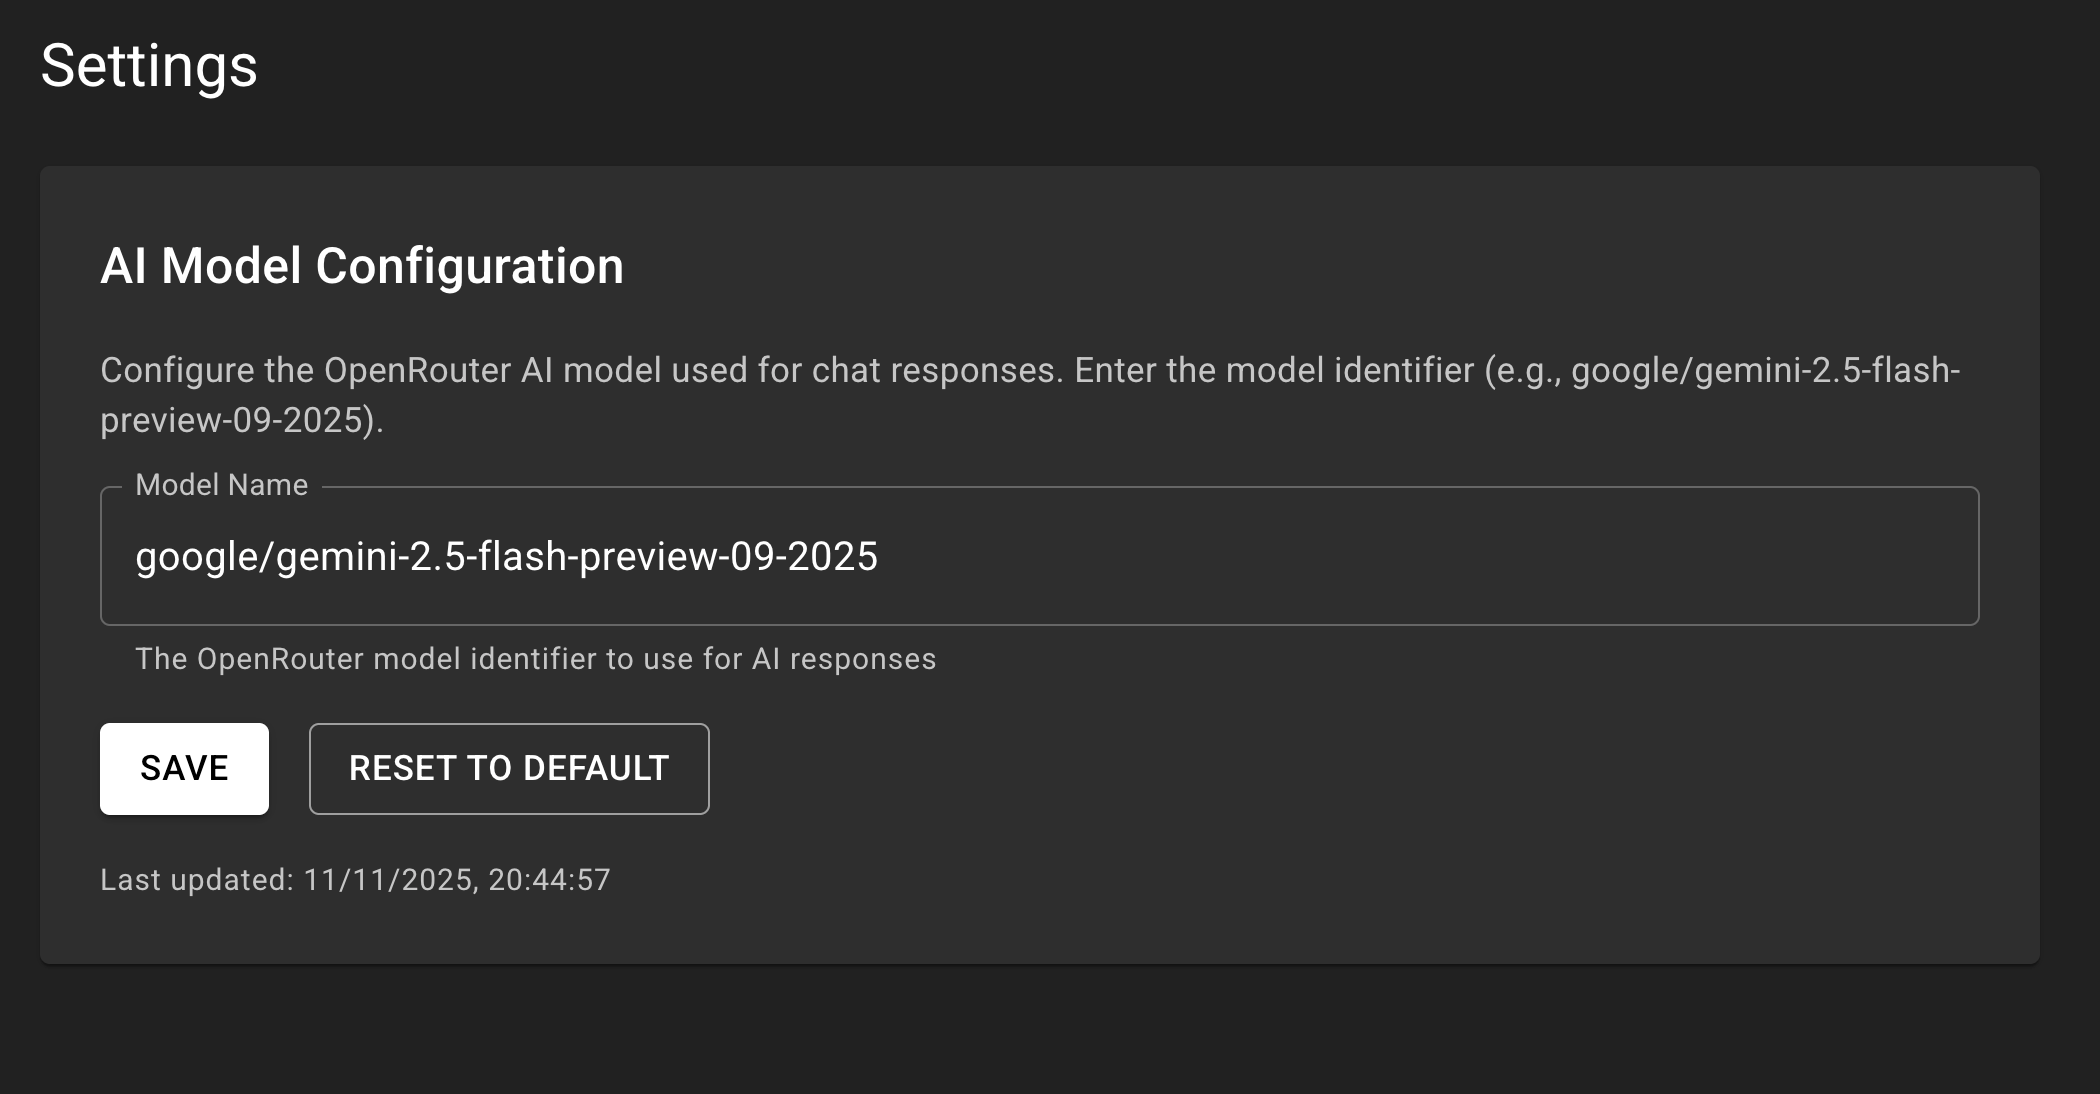
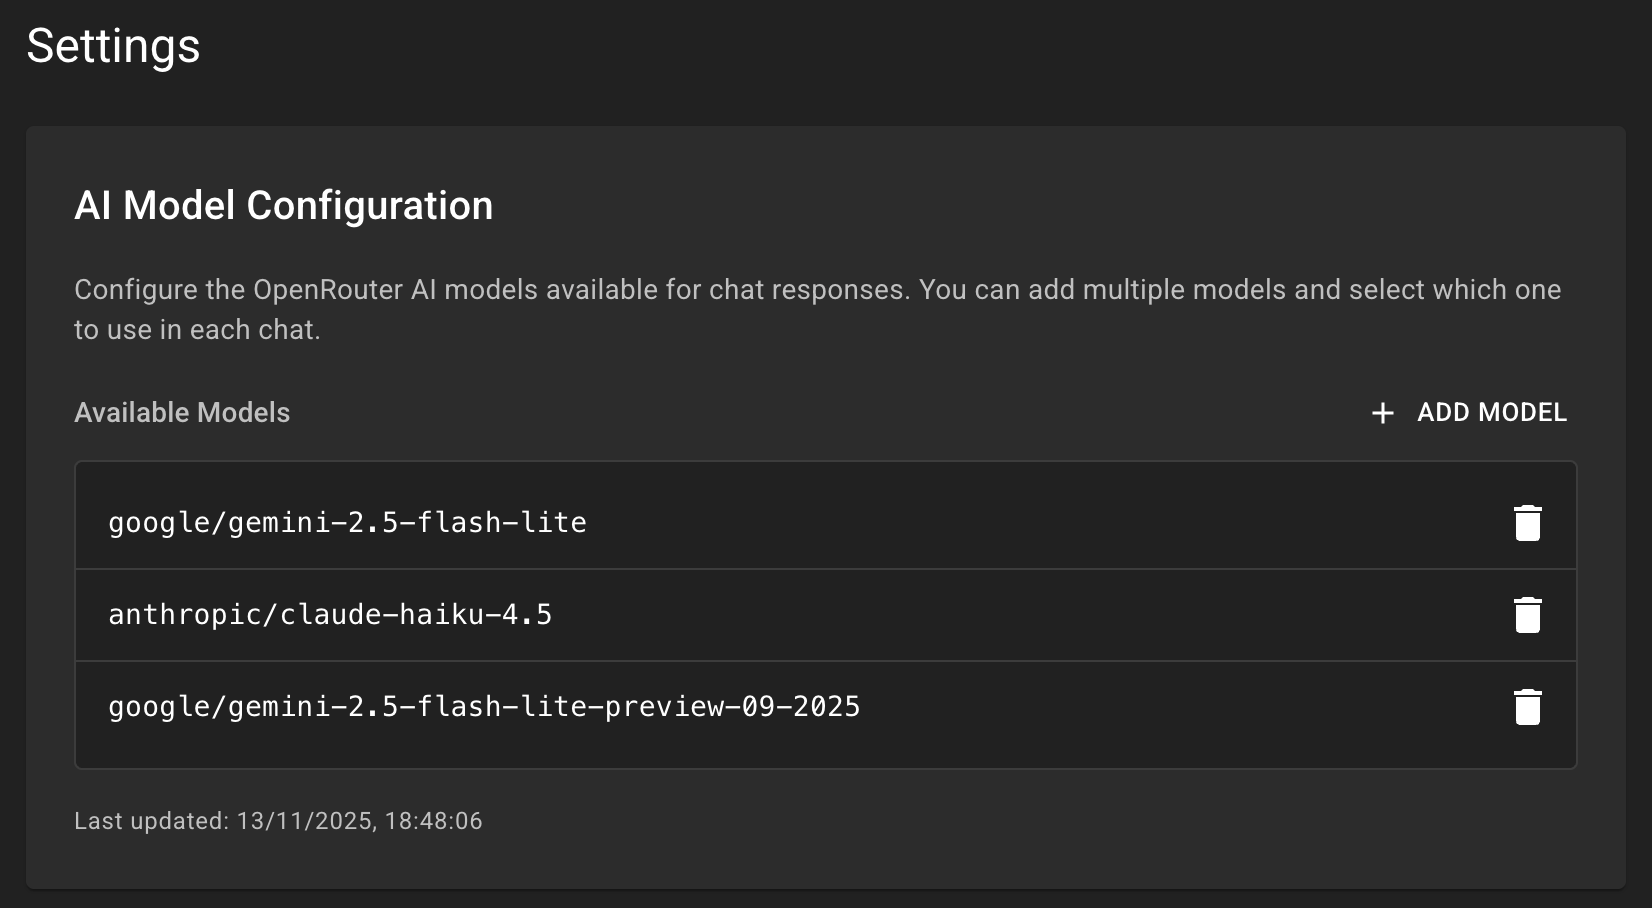
Update readme with multiple model selection

diff --git a/README.md b/README.md
@@ -115,16 +115,21 @@ npx convex env set OPENROUTER_API_KEY=your-openrouter-key
 
 ### AI Model Configuration
 
-You must configure the AI model before using the chat assistant. After starting the application, navigate to the Settings page (`/settings`) and configure the OpenRouter AI model that will be used for chat responses. Enter the model identifier in the "Model Name" field and click "Save".
+You must configure the AI model before using the chat assistant. After starting the application, navigate to the Settings page (`/settings`) and configure the OpenRouter AI models that will be available for chat responses. You can add multiple models by clicking the "+ ADD MODEL" button and entering the model identifier.
 
 ![AI Model Configuration Settings](pippaos-itsm-2.png)
+
+Once you've added models, you can select which model to use directly in the chat interface. The model selector appears below the message input field, allowing you to switch between available models at any time midway through a conversation.
+
+![Model Selection in Chat](pippaos-itsm-5.png)
 
 **Tested Models:**
 
 The following OpenRouter models have been tested and work correctly:
 
 - `anthropic/claude-haiku-4.5`
-- `google/gemini-2.5-flash-preview-09-2025`
+- `google/gemini-2.5-flash-lite`
+- `google/gemini-2.5-flash-lite-preview-09-2025`
 
 You can use any OpenRouter model identifier, but make sure to test it before using it in production.
 
